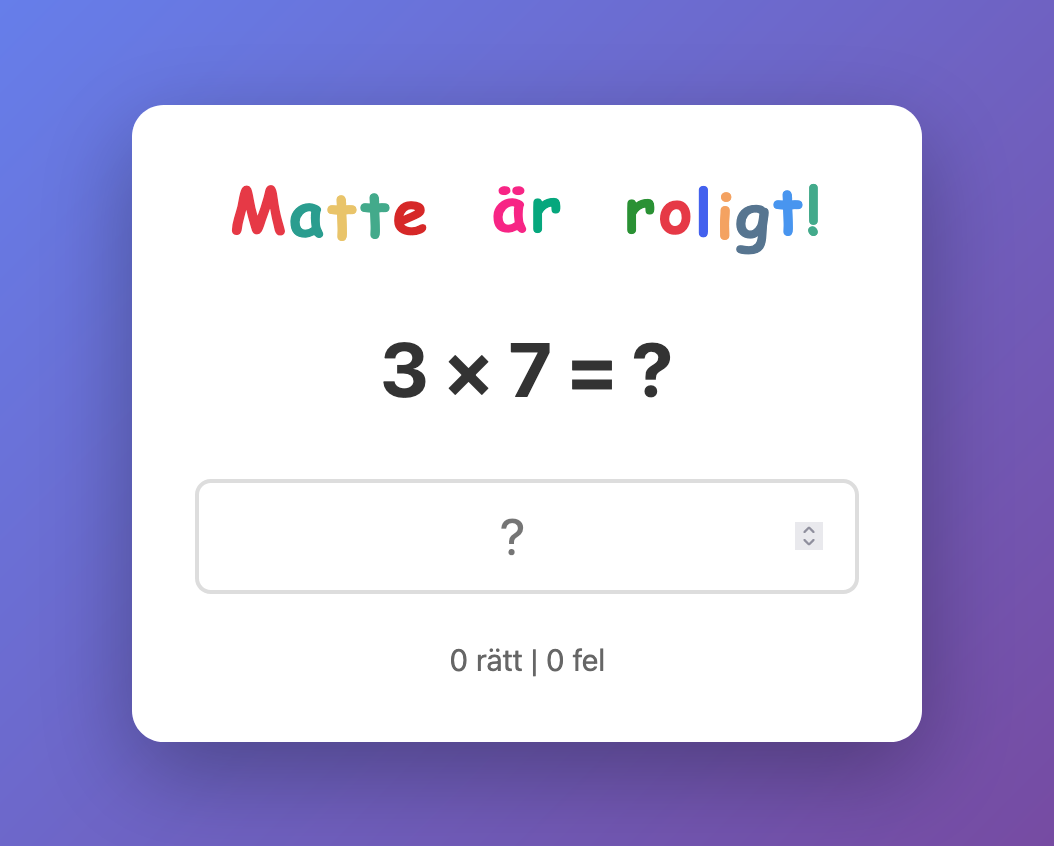
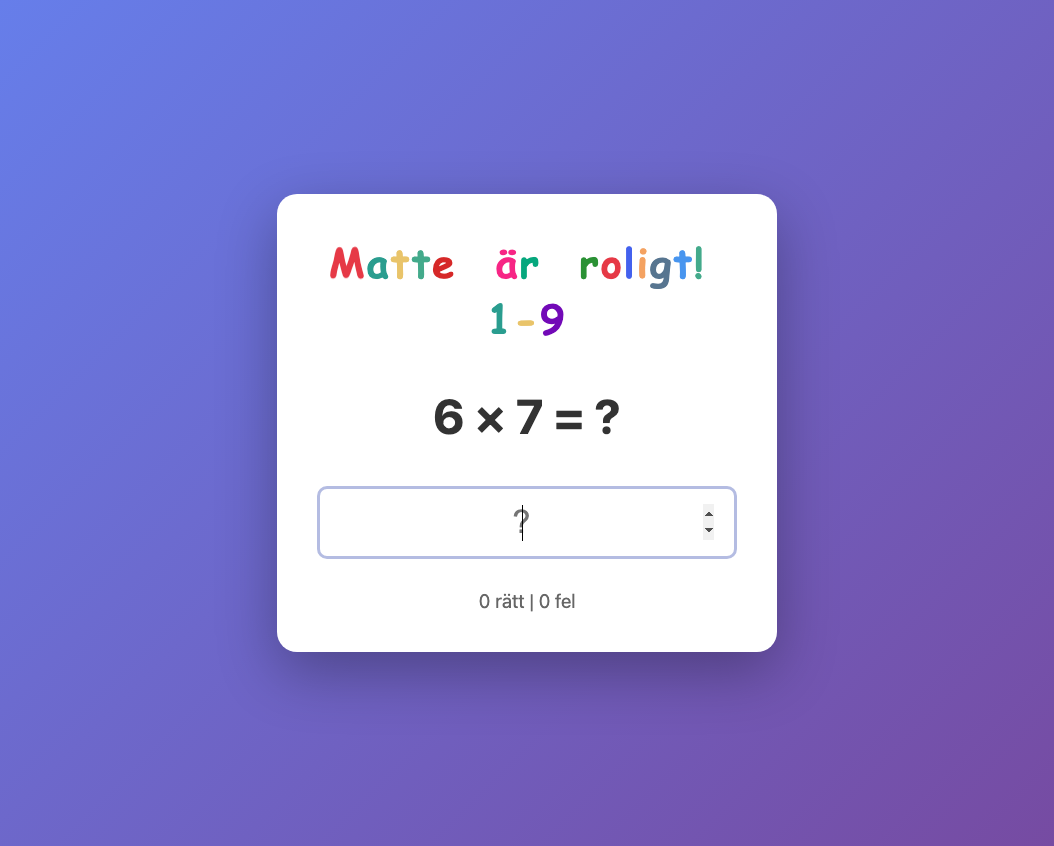
Add a 1-5 multiplication game and show ranges in the headings
The 1-5 variant is a copy of the existing game with both factors drawn
from 1-5 instead of 1-9, linked from a new card on the labs index.

Both games now spell their range out in the bouncing heading and the
page title, so they are tellable apart from the tab bar. Screenshots
are regenerated to match.

diff --git a/labs/matte5/index.html b/labs/matte5/index.html
@@ -1,0 +1,294 @@
+<!DOCTYPE html>
+<html lang="en">
+<head>
+    <meta charset="UTF-8">
+    <meta name="viewport" content="width=device-width, initial-scale=1.0">
+    <title>Matte är roligt! 1-5</title>
+    <style>
+        * {
+            margin: 0;
+            padding: 0;
+            box-sizing: border-box;
+        }
+
+        body {
+            font-family: -apple-system, BlinkMacSystemFont, 'Segoe UI', Roboto, Oxygen, Ubuntu, Cantarell, sans-serif;
+            background: linear-gradient(135deg, #667eea 0%, #764ba2 100%);
+            min-height: 100vh;
+            display: flex;
+            justify-content: center;
+            align-items: center;
+            padding: 20px;
+        }
+
+        .container {
+            background: white;
+            border-radius: 20px;
+            padding: 40px;
+            box-shadow: 0 20px 60px rgba(0, 0, 0, 0.3);
+            max-width: 500px;
+            width: 100%;
+            text-align: center;
+        }
+
+        h1 {
+            font-size: 2.5rem;
+            font-weight: bold;
+            margin-bottom: 30px;
+            font-family: 'Comic Sans MS', 'Chalkboard SE', 'Bradley Hand', cursive;
+            letter-spacing: 0.05em;
+        }
+
+        h1 span {
+            display: inline-block;
+            animation: bounce 0.5s ease infinite alternate;
+        }
+
+        h1 span:nth-child(1) { color: #E63946; animation-delay: 0s; }
+        h1 span:nth-child(2) { color: #2A9D8F; animation-delay: 0.1s; }
+        h1 span:nth-child(3) { color: #E9C46A; animation-delay: 0.2s; }
+        h1 span:nth-child(4) { color: #43AA8B; animation-delay: 0.3s; }
+        h1 span:nth-child(5) { color: #D62828; animation-delay: 0.4s; }
+        h1 span:nth-child(6) { color: #7209B7; animation-delay: 0.5s; }
+        h1 span:nth-child(7) { color: #F72585; animation-delay: 0.6s; }
+        h1 span:nth-child(8) { color: #06A77D; animation-delay: 0.7s; }
+        h1 span:nth-child(9) { color: #F4A261; animation-delay: 0.8s; }
+        h1 span:nth-child(10) { color: #2A9134; animation-delay: 0.9s; }
+        h1 span:nth-child(11) { color: #E63946; animation-delay: 1s; }
+        h1 span:nth-child(12) { color: #4361EE; animation-delay: 1.1s; }
+        h1 span:nth-child(13) { color: #F4A261; animation-delay: 1.2s; }
+        h1 span:nth-child(14) { color: #577590; animation-delay: 1.3s; }
+        h1 span:nth-child(15) { color: #4895EF; animation-delay: 1.4s; }
+        h1 span:nth-child(16) { color: #43AA8B; animation-delay: 1.4s; }
+        h1 span:nth-child(17) { color: #F72585; animation-delay: 1.5s; }
+        h1 span:nth-child(18) { color: #2A9D8F; animation-delay: 1.6s; }
+        h1 span:nth-child(19) { color: #E9C46A; animation-delay: 1.7s; }
+        h1 span:nth-child(20) { color: #7209B7; animation-delay: 1.8s; }
+
+        @keyframes bounce {
+            from { transform: translateY(0px); }
+            to { transform: translateY(-5px); }
+        }
+
+        .equation {
+            font-size: 3rem;
+            font-weight: bold;
+            color: #333;
+            margin-bottom: 30px;
+            min-height: 80px;
+            display: flex;
+            align-items: center;
+            justify-content: center;
+        }
+
+        .input-container {
+            position: relative;
+            margin-bottom: 30px;
+        }
+
+        input {
+            font-size: 2rem;
+            padding: 15px 20px;
+            border: 3px solid #ddd;
+            border-radius: 10px;
+            width: 100%;
+            text-align: center;
+            transition: border-color 0.3s;
+        }
+
+        input:focus {
+            outline: none;
+            border-color: #667eea;
+        }
+
+        .feedback {
+            position: fixed;
+            top: 50%;
+            left: 50%;
+            transform: translate(-50%, -50%) scale(0);
+            width: 150px;
+            height: 150px;
+            opacity: 0;
+            pointer-events: none;
+            transition: all 0.4s ease;
+        }
+
+        .feedback.show {
+            transform: translate(-50%, -50%) scale(1);
+            opacity: 1;
+        }
+
+        .checkmark,
+        .crossmark {
+            width: 100%;
+            height: 100%;
+            border-radius: 50%;
+            display: flex;
+            align-items: center;
+            justify-content: center;
+            font-size: 5rem;
+        }
+
+        .checkmark {
+            background: #4caf50;
+            color: white;
+        }
+
+        .crossmark {
+            background: #f44336;
+            color: white;
+        }
+
+        .score {
+            font-size: 1.2rem;
+            color: #666;
+            margin-top: 20px;
+        }
+
+        @media (max-width: 600px) {
+            .container {
+                padding: 30px 20px;
+            }
+
+            h1 {
+                font-size: 2rem;
+            }
+
+            .equation {
+                font-size: 2.5rem;
+                min-height: 60px;
+            }
+
+            input {
+                font-size: 1.8rem;
+                padding: 12px 15px;
+            }
+
+            .feedback {
+                width: 120px;
+                height: 120px;
+            }
+
+            .checkmark,
+            .crossmark {
+                font-size: 4rem;
+            }
+        }
+    </style>
+</head>
+<body>
+    <div class="container">
+        <h1>
+            <span>M</span><span>a</span><span>t</span><span>t</span><span>e</span>
+            <span> </span>
+            <span>ä</span><span>r</span>
+            <span> </span>
+	    <span>r</span><span>o</span><span>l</span><span>i</span><span>g</span><span>t</span><span>!</span>
+            <span> </span>
+            <span>1</span><span>-</span><span>5</span>
+        </h1>
+        <div class="equation" id="equation"></div>
+        <div class="input-container">
+            <input
+                type="number"
+                inputmode="numeric"
+                pattern="[0-9]*"
+                id="answer"
+                placeholder="?"
+                autocomplete="off"
+            >
+        </div>
+        <div class="score">
+            <span id="correct">0</span> rätt | <span id="incorrect">0</span> fel
+        </div>
+    </div>
+
+    <div class="feedback" id="feedback"></div>
+
+    <script>
+        let num1, num2, correctAnswer;
+        let correctCount = 0;
+        let incorrectCount = 0;
+        let checkTimeout = null;
+
+        const equationEl = document.getElementById('equation');
+        const answerInput = document.getElementById('answer');
+        const feedbackEl = document.getElementById('feedback');
+        const correctEl = document.getElementById('correct');
+        const incorrectEl = document.getElementById('incorrect');
+
+        function generateEquation() {
+            num1 = Math.floor(Math.random() * 5) + 1;
+            num2 = Math.floor(Math.random() * 5) + 1;
+            correctAnswer = num1 * num2;
+            equationEl.textContent = `${num1} × ${num2} = ?`;
+            answerInput.value = '';
+            answerInput.focus();
+        }
+
+        function showFeedback(isCorrect) {
+            feedbackEl.innerHTML = isCorrect
+                ? '<div class="checkmark">✓</div>'
+                : '<div class="crossmark">✗</div>';
+
+            feedbackEl.classList.add('show');
+
+            setTimeout(() => {
+                feedbackEl.classList.remove('show');
+                if (isCorrect) {
+                    setTimeout(generateEquation, 200);
+                } else {
+                    answerInput.value = '';
+                    answerInput.focus();
+                }
+            }, 800);
+        }
+
+        function evaluateAnswer() {
+            const userAnswer = parseInt(answerInput.value, 10);
+
+            if (isNaN(userAnswer)) return;
+
+            if (userAnswer === correctAnswer) {
+                correctCount++;
+                correctEl.textContent = correctCount;
+                showFeedback(true);
+            } else {
+                incorrectCount++;
+                incorrectEl.textContent = incorrectCount;
+                showFeedback(false);
+            }
+        }
+
+        function checkAnswer() {
+            const userAnswer = parseInt(answerInput.value, 10);
+
+            // Clear any existing timeout
+            if (checkTimeout) {
+                clearTimeout(checkTimeout);
+            }
+
+            if (isNaN(userAnswer)) return;
+
+            // If the answer is correct, evaluate immediately
+            if (userAnswer === correctAnswer) {
+                evaluateAnswer();
+                return;
+            }
+
+            // If the correct answer is two digits and user input is single digit, wait
+            if (correctAnswer >= 10 && userAnswer < 10) {
+                checkTimeout = setTimeout(evaluateAnswer, 3000);
+            } else {
+                // For single-digit answers or when user has entered two digits, check immediately
+                evaluateAnswer();
+            }
+        }
+
+        answerInput.addEventListener('input', checkAnswer);
+
+        // Initialize the game
+        generateEquation();
+    </script>
+</body>
+</html>

diff --git a/labs/matte/index.html b/labs/matte/index.html
@@ -3,7 +3,7 @@
 <head>
     <meta charset="UTF-8">
     <meta name="viewport" content="width=device-width, initial-scale=1.0">
-    <title>Matte är roligt!</title>
+    <title>Matte är roligt! 1-9</title>
     <style>
         * {
             margin: 0;
@@ -60,6 +60,10 @@
         h1 span:nth-child(14) { color: #577590; animation-delay: 1.3s; }
         h1 span:nth-child(15) { color: #4895EF; animation-delay: 1.4s; }
         h1 span:nth-child(16) { color: #43AA8B; animation-delay: 1.4s; }
+        h1 span:nth-child(17) { color: #F72585; animation-delay: 1.5s; }
+        h1 span:nth-child(18) { color: #2A9D8F; animation-delay: 1.6s; }
+        h1 span:nth-child(19) { color: #E9C46A; animation-delay: 1.7s; }
+        h1 span:nth-child(20) { color: #7209B7; animation-delay: 1.8s; }
 
         @keyframes bounce {
             from { transform: translateY(0px); }
@@ -180,6 +184,8 @@
             <span>ä</span><span>r</span>
             <span> </span>
 	    <span>r</span><span>o</span><span>l</span><span>i</span><span>g</span><span>t</span><span>!</span>
+            <span> </span>
+            <span>1</span><span>-</span><span>9</span>
         </h1>
         <div class="equation" id="equation"></div>
         <div class="input-container">

diff --git a/labs/index.html b/labs/index.html
@@ -192,8 +192,14 @@
             <div class="projects-grid">
                 <div class="project-card">
                     <a href="matte/index.html">
-                        <img src="matte/scr1.png" alt="Multiplication game screenshot" />
+                        <img src="matte/scr1.png" alt="Multiplication game 1-9 screenshot" />
                         <p>A simple multiplication game 1-9</p>
+                    </a>
+                </div>
+                <div class="project-card">
+                    <a href="matte5/index.html">
+                        <img src="matte5/scr.png" alt="Multiplication game 1-5 screenshot" />
+                        <p>A simple multiplication game 1-5</p>
                     </a>
                 </div>
                 <div class="project-card">
